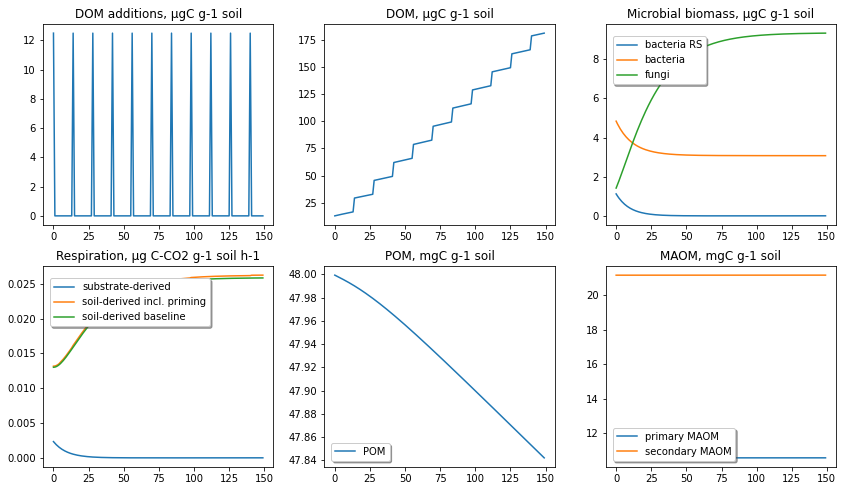
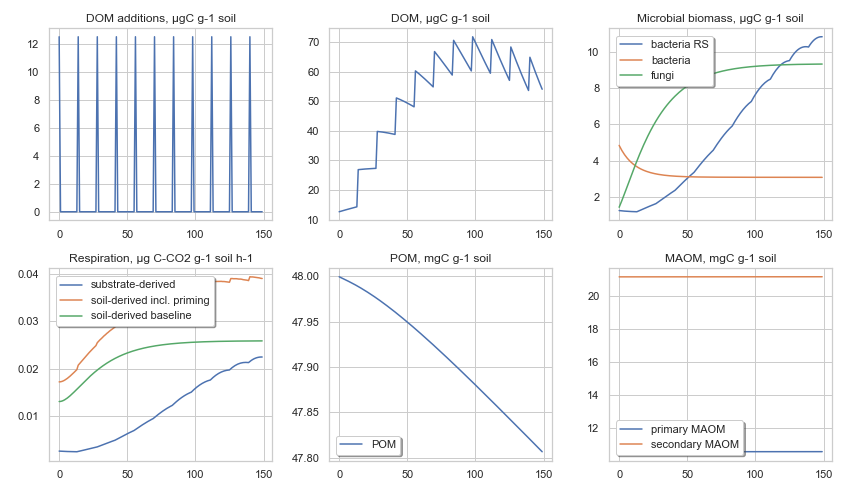
bug wrong KS passed for DOM

diff --git a/keylink_functions.py b/keylink_functions.py
@@ -517,13 +517,13 @@ def calcPriming(POM, CN_POM, MAOMs, CN_MAOM, bact_RS, CN_bact, DOM,CN_DOM, Extra
         #     Cbact_RS=Cbact_RS+ExtraGrowth
         return DOM, POM, MAOMs, bact_RS, respPrim
 
-def calcRhizosphere (POM, CN_POM, MAOM, CN_MAOM, bact_RS, CN_bact, DOM, CN_DOM, GMAX, DEATH, pCN, pH, res, KSbact, DOM_EC, Pmax, k, kPOM_MAOM):  
+def calcRhizosphere (POM, CN_POM, MAOM, CN_MAOM, bact_RS, CN_bact, DOM, CN_DOM, GMAX, DEATH, pCN, pH, res, KS, DOM_EC, Pmax, k, kPOM_MAOM):  
 
     # rhizosphere bacterial gorwth on DOM
     DOM_Nini=DOM/CN_DOM
     #gmaxbPOM = mf.calcgmaxmod(CN_bact, CN_POM, pCN, 0.0, 0, pH, 1)*GMAX #gmax for bact on POM
     gmaxmod= calcgmaxmod(CN_bact, CN_DOM, pCN, 0, 0, pH, 1)*GMAX  #growth per unit of bacterial biomass g/(g day)
-    growth= calcgrowth(bact_RS, DOM, 1, gmaxmod, KSbact*bact_RS) #Monod kinetic equation of growth  # g day net
+    growth= calcgrowth(bact_RS, DOM, 1, gmaxmod, KS*bact_RS) #Monod kinetic equation of growth  # g day net
     BactTurnover=DEATH*bact_RS
     bact_RS+=growth-BactTurnover-res*bact_RS
     DOM+=-growth+BactTurnover

diff --git a/potPrimingMAOM.py b/potPrimingMAOM.py
@@ -128,7 +128,7 @@ for d in range(numDays):
         CN_DOM=DOM/DOM_N #calculate new CN of DOM pool
           
     # microbial growth on DOM and priming
-    DOM,DOM_N, bact_RS, POM, MAOMs, resp, respPriming= mf.calcRhizosphere(POM, CN_POM, MAOMs, CN_MAOM, bact_RS, CN_bact, DOM, CN_DOM, GMAX, DEATH, pCN, pH, rRESP, KSbact, DOM_EC, Pmax, k, kPOM_MAOM)
+    DOM,DOM_N, bact_RS, POM, MAOMs, resp, respPriming= mf.calcRhizosphere(POM, CN_POM, MAOMs, CN_MAOM, bact_RS, CN_bact, DOM, CN_DOM, GMAX, DEATH, pCN, pH, rRESP, KS, DOM_EC, Pmax, k, kPOM_MAOM)
                                                                    # ((MAOMsaturation,maxMAOM,bact_RS, DOM, gmax, DEATH,CN_bact, CN_DOM, pCN, pH, res, Ks, fCN, CN_SOM, Nmin, SOM,PVstruct,  primingIntensity)        # MAOM formation
 
     #MAOM formation
